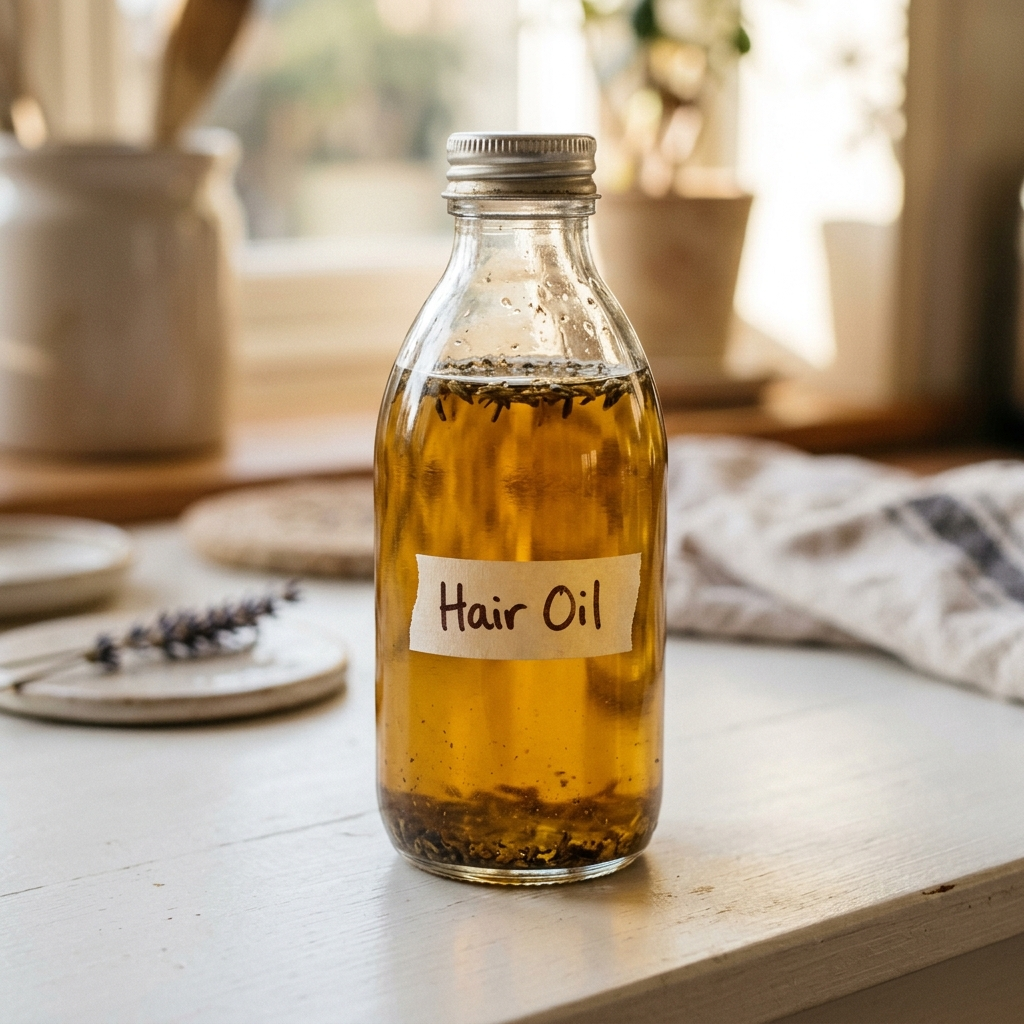
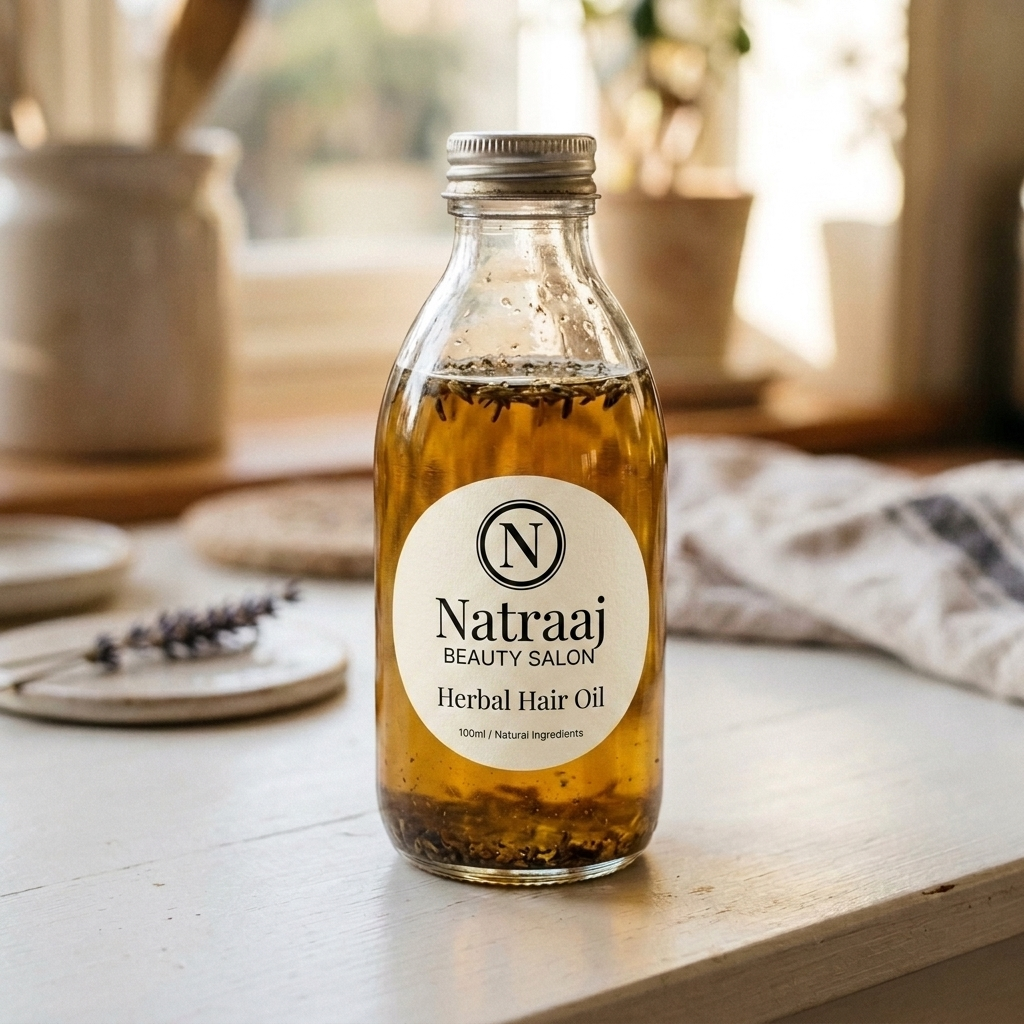
Revert CSS labels and use AI generated branded product images

Changed region(s): [[0.375, 0.4375, 0.6562, 0.7812], [0.5625, 0.375, 0.5938, 0.4062]]

diff --git a/style.css b/style.css
@@ -849,53 +849,6 @@ h1, h2, h3, h4 {
   transition: transform .6s var(--ease);
 }
 
-.product-image-label {
-  position: absolute;
-  top: 50%;
-  left: 50%;
-  transform: translate(-50%, -50%);
-  background: #efe9db;
-  padding: 16px 24px;
-  border-radius: 8px;
-  display: flex;
-  flex-direction: column;
-  align-items: center;
-  box-shadow: 0 4px 15px rgba(0,0,0,0.15);
-  border: 1px solid rgba(201,169,78,0.3);
-  z-index: 10;
-  width: 200px;
-}
-
-.product-image-label .nav-logo-icon {
-  width: 40px;
-  height: 40px;
-  font-size: 1.4rem;
-  margin-bottom: 6px;
-}
-
-.product-image-label .nav-logo-text {
-  font-size: 1.1rem;
-  text-align: center;
-  margin-bottom: 12px;
-}
-
-.product-image-label .nav-logo-text span {
-  font-size: 0.55rem;
-  letter-spacing: 2px;
-}
-
-.product-image-label .label-title {
-  font-family: var(--ff-body);
-  font-size: 0.85rem;
-  font-weight: 500;
-  color: var(--charcoal);
-  text-transform: uppercase;
-  letter-spacing: 1px;
-  border-top: 1px solid rgba(26,26,26,0.1);
-  padding-top: 8px;
-  width: 100%;
-  text-align: center;
-}
 
 .product-card:hover .product-image img {
   transform: scale(1.08);

diff --git a/index.html b/index.html
@@ -220,11 +220,6 @@
           <span class="product-badge">🌿 Bestseller</span>
           <div class="product-image">
             <img src="images/hair-henna.png" alt="Natraaj Herbal Hair Henna by Nirmala Sen" />
-            <div class="product-image-label">
-              <div class="nav-logo-icon">N</div>
-              <div class="nav-logo-text">Natraaj<span>Beauty Salon</span></div>
-              <div class="label-title">Natural Hair Henna</div>
-            </div>
           </div>
           <div class="product-info">
             <h3>Natural Hair Henna</h3>
@@ -254,11 +249,6 @@
           <span class="product-badge">✨ Handmade</span>
           <div class="product-image">
             <img src="images/hair-oil.png" alt="Natraaj Herbal Hair Oil by Nirmala Sen" />
-            <div class="product-image-label">
-              <div class="nav-logo-icon">N</div>
-              <div class="nav-logo-text">Natraaj<span>Beauty Salon</span></div>
-              <div class="label-title">Herbal Hair Oil</div>
-            </div>
           </div>
           <div class="product-info">
             <h3>Herbal Hair Oil</h3>